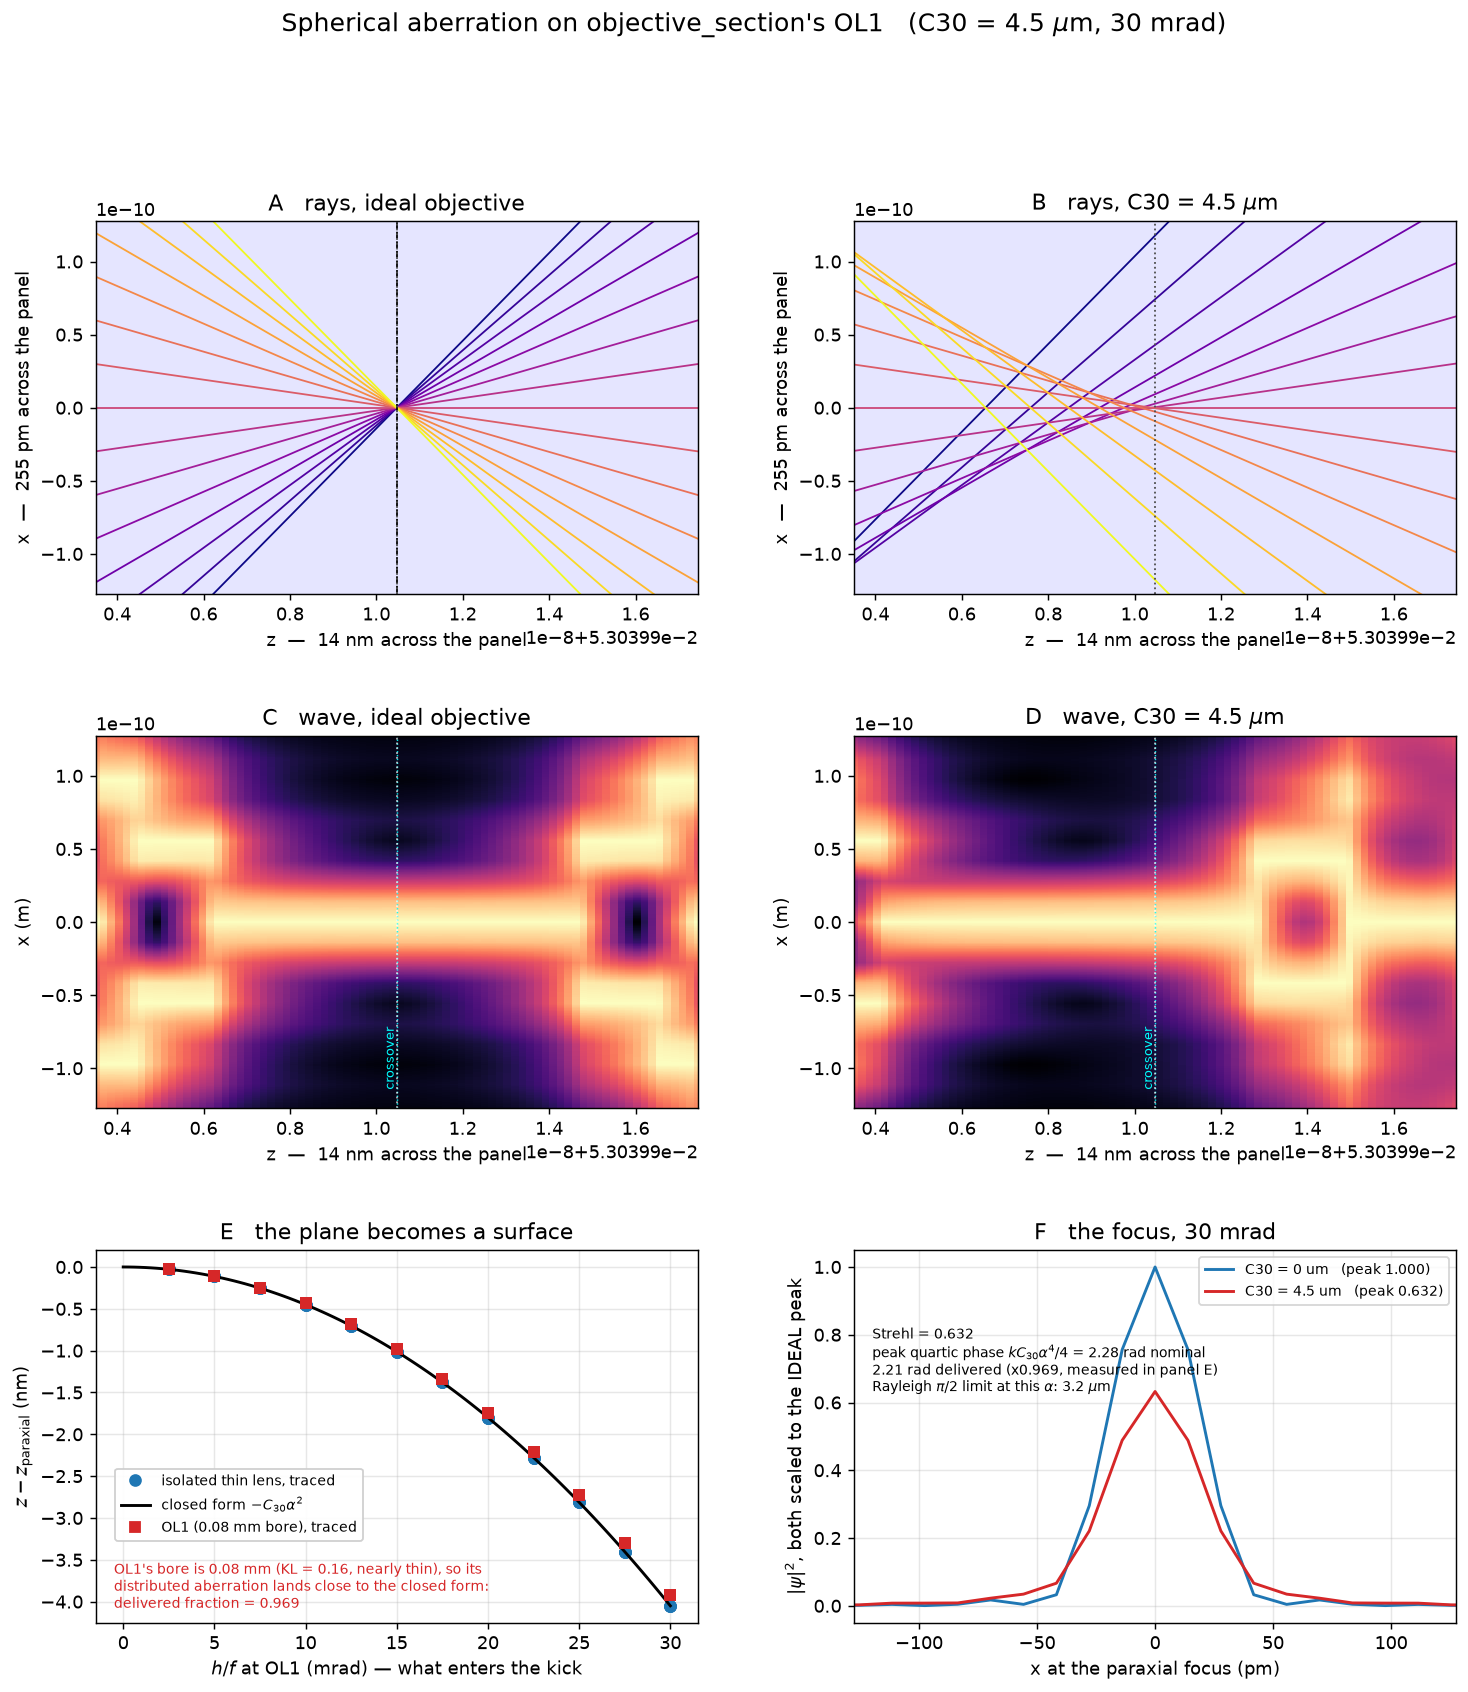
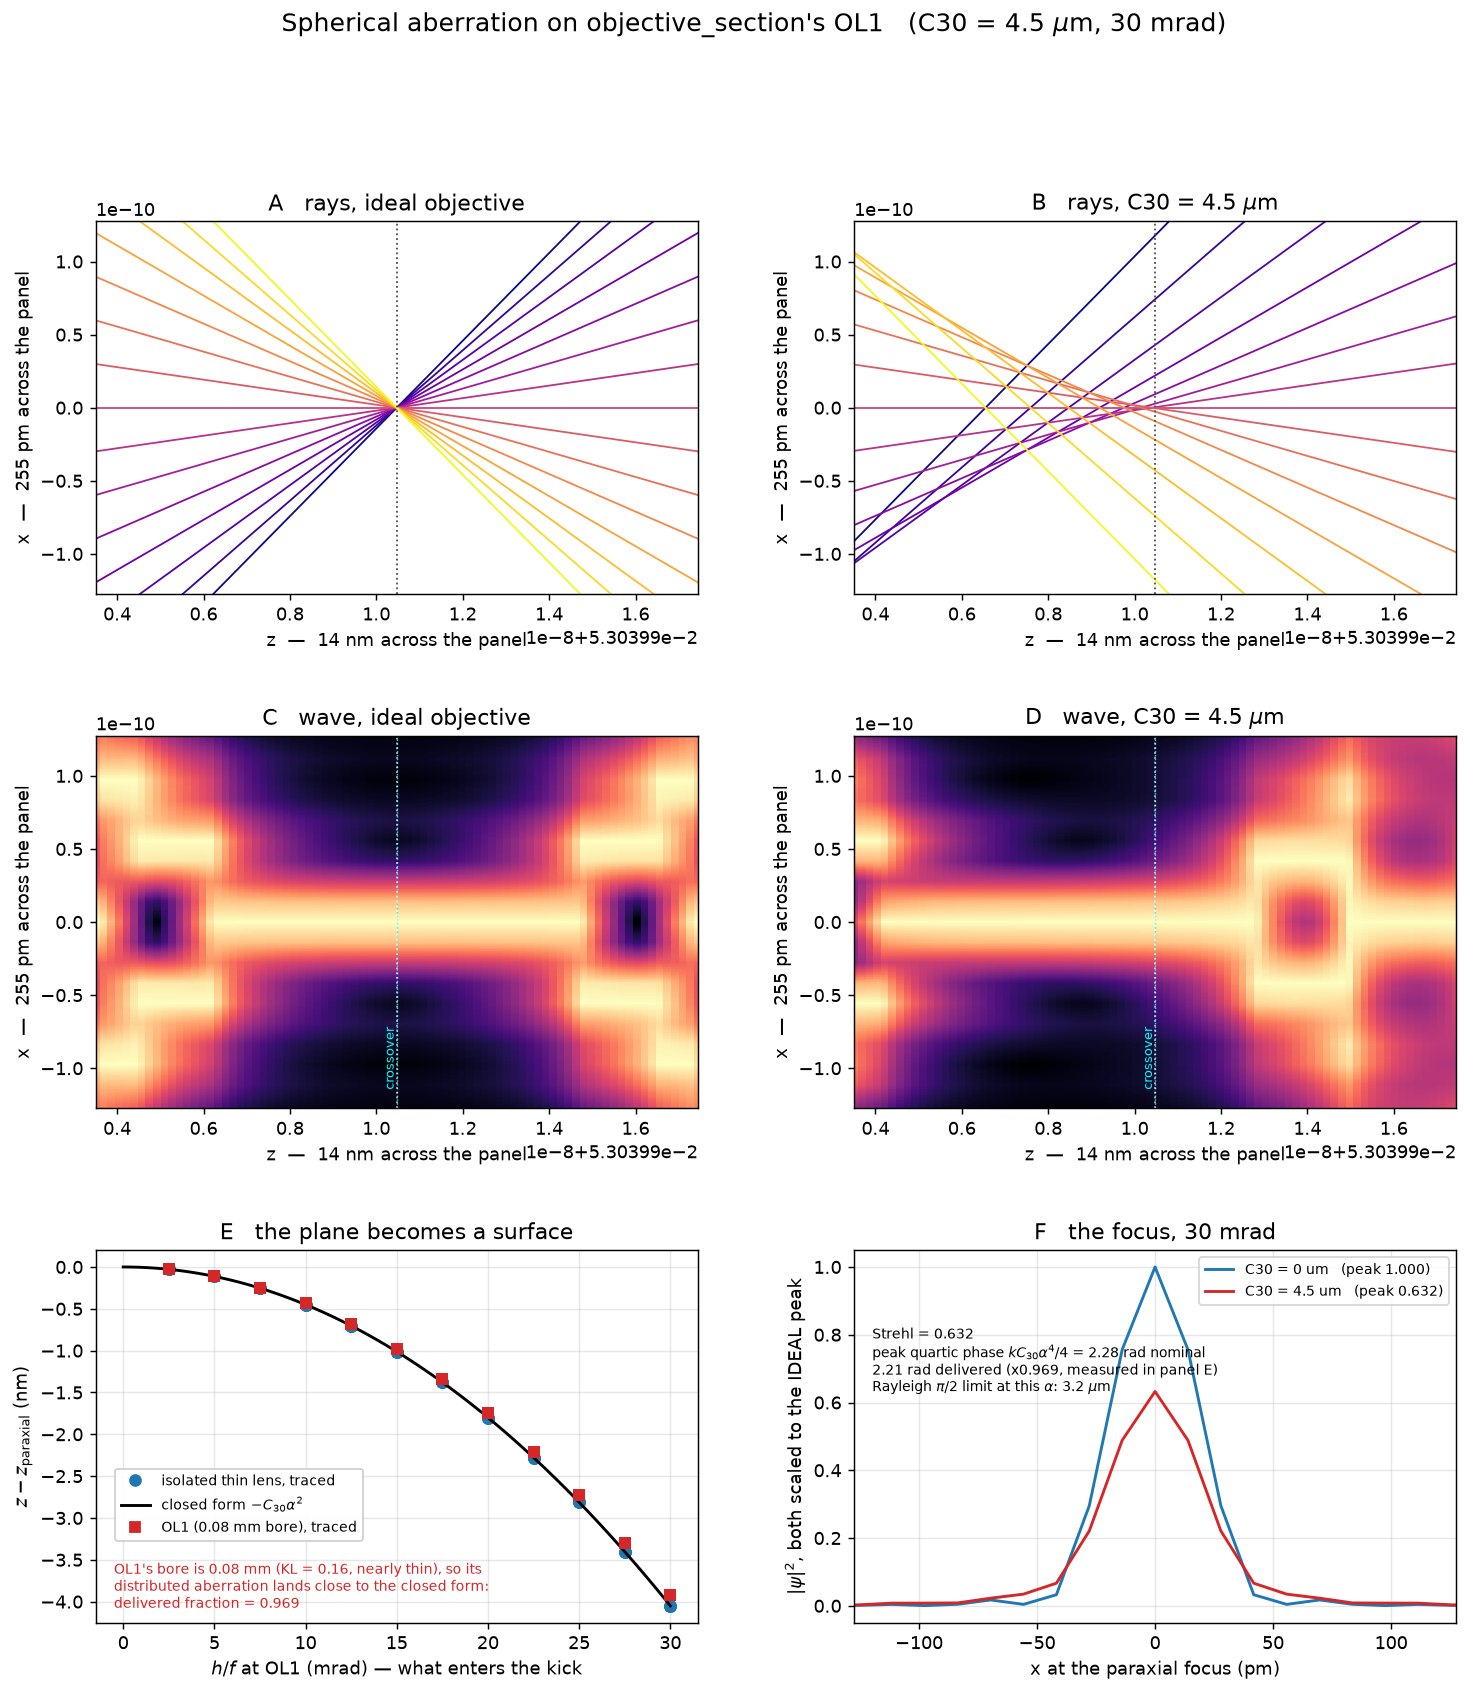
example 06: window and label at the call, not after it
- plot2D and the scaled cross-section take xlabel/ylabel, forwarded from
  Microscope.show, so a panel's labels are supplied where the panel is drawn
  -- the same contract Signal.show already has.
- 06's panels A/B pass the focal window as show(zlims=, ylims=) instead of
  set_xlim/set_ylim afterwards, and overlays=False replaces the loop that
  hid the ray diagram's annotation texts one by one.
- The scope() and focal_window() wrappers are gone: two columns built
  outright, subdivided and propagated in four lines at the point of use.
  The figure is unchanged.

Claude-Session: https://claude.ai/code/session_01RAd3Xf28wH7udEThFAjuTE

diff --git a/examples/06_aberratedObjective.py b/examples/06_aberratedObjective.py
@@ -51,59 +51,10 @@ N_WAVE, N_PLANES = 256, 80
 LAM = 2.5078e-12
 
 
-def scope(c30, **kw):
-	"""Build the objective section, optionally aberrated.
-
-	Parameters
-	----------
-	c30 : float
-		Spherical aberration coefficient (metres); 0 for an ideal objective.
-	**kw
-		Forwarded to :func:`build_objective_section`.
-
-	Returns
-	-------
-	Microscope
-		The objective section, not yet propagated.
-	"""
-	m = build_objective_section(alpha=ALPHA, wave_shape=(N_WAVE, N_WAVE), **kw)
-	if c30:
-		m["OL1"].aberrations = Aberrations({'C30': c30})
-	return m
-
-
-def focal_window(c30, z_lo, z_hi):
-	"""Propagate the objective with the focal window densely sampled.
-
-	Parameters
-	----------
-	c30 : float
-		Spherical aberration coefficient (metres); 0 for an ideal objective.
-	z_lo, z_hi : float
-		Window bounds (metres); ``N_PLANES`` planes are logged across them.
-
-	Returns
-	-------
-	Microscope
-		The propagated column, ready for :meth:`Microscope.show` (the
-		cross-section) and :meth:`Microscope.wavefield_at` (the focal
-		line-out on its native, picometre grid).
-
-	Notes
-	-----
-	:meth:`Microscope.subdivided` cuts the drifts at the requested absolute z,
-	which is what puts a logged plane on each sample of the window. It cuts
-	only UNNAMED drifts -- the focus here sits inside the 3 mm drift ahead of
-	the specimen, so the ``sample`` marker survives, the lengths stay positive
-	and z stays monotonic.
-	"""
-	m = scope(c30).subdivided(list(np.linspace(z_lo, z_hi, N_PLANES)))
-	m.propagate_wave(mode="hybrid", absorb=0.0)
-	return m
-
-
 # ---- the focal window, from the ideal ray crossover ----------------------
-ideal, aberrated = scope(0.0), scope(C30)
+ideal = build_objective_section(alpha=ALPHA, wave_shape=(N_WAVE, N_WAVE))
+aberrated = build_objective_section(alpha=ALPHA, wave_shape=(N_WAVE, N_WAVE))
+aberrated["OL1"].aberrations = Aberrations({'C30': C30})
 for m in (ideal, aberrated):
 	m.propagate_ray()
 Z_PAR = float(ideal.conjugate_planes(axis="x")["diff"][0])
@@ -130,14 +81,11 @@ gs = fig.add_gridspec(3, 2, hspace=0.38, wspace=0.26)
 for k, (m, lbl) in enumerate(((ideal, "A   rays, ideal objective"),
 								(aberrated, f"B   rays, C30 = {C30*1e6:g} " + r"$\mu$m"))):
 	ax = fig.add_subplot(gs[0, k])
-	m.show(kind="ray", plt_ax=ax, regenerate=False, conjugates=False, title=lbl)
-	for t in ax.texts:
-		t.set_visible(False)
-	ax.set_xlim(Z_LO, Z_HI)
-	ax.set_ylim(-X_HALF, X_HALF)
+	m.show(kind="ray", plt_ax=ax, regenerate=False, title=lbl, overlays=False,
+		   zlims=(Z_LO, Z_HI), ylims=(-X_HALF, X_HALF),
+		   xlabel=f"z  —  {(Z_HI-Z_LO)*1e9:.0f} nm across the panel",
+		   ylabel=f"x  —  {2*X_HALF*1e12:.0f} pm across the panel")
 	ax.axvline(Z_PAR, color="0.3", lw=1.0, ls=":")
-	ax.set_xlabel(f"z  —  {(Z_HI-Z_LO)*1e9:.0f} nm across the panel")
-	ax.set_ylabel(f"x  —  {2*X_HALF*1e12:.0f} pm across the panel")
 
 # ---- C, D: the same window, in the wave ---------------------------------
 # The shared cross-section renderer already does what these panels need: each
@@ -146,14 +94,22 @@ for k, (m, lbl) in enumerate(((ideal, "A   rays, ideal objective"),
 # stretch, so no `norm` is called for. `zlims` windows it: planes outside the
 # focal window are dropped before the common transverse grid is built, so the
 # panel is sized by the focus and not by the far end of the column.
-columns = [focal_window(c30, Z_LO, Z_HI) for c30 in (0.0, C30)]
+# subdivided() cuts the drifts at the requested absolute z, which is what puts
+# a logged plane on each sample of the window. It cuts only UNNAMED drifts --
+# the focus sits inside the 3 mm drift ahead of the specimen, so the `sample`
+# marker survives, the lengths stay positive and z stays monotonic.
+columns = [m.subdivided(list(np.linspace(Z_LO, Z_HI, N_PLANES)))
+		   for m in (ideal, aberrated)]
+for m in columns:
+	m.propagate_wave(mode="hybrid", absorb=0.0)
 for k, (m, lbl) in enumerate(zip(columns,
 		("C   wave, ideal objective", f"D   wave, C30 = {C30*1e6:g} " + r"$\mu$m"))):
 	ax = fig.add_subplot(gs[1, k])
 	m.show(kind="wave-hybrid", plt_ax=ax, regenerate=False, conjugates=False,
-		   zlims=(Z_LO, Z_HI), ylims=(-X_HALF, X_HALF), title=lbl)
+		   zlims=(Z_LO, Z_HI), ylims=(-X_HALF, X_HALF), title=lbl,
+		   xlabel=f"z  —  {(Z_HI-Z_LO)*1e9:.0f} nm across the panel",
+		   ylabel=f"x  —  {2*X_HALF*1e12:.0f} pm across the panel")
 	ax.axvline(Z_PAR, color="w", lw=1.0, ls=":", alpha=0.7)
-	ax.set_xlabel(f"z  —  {(Z_HI-Z_LO)*1e9:.0f} nm across the panel")
 
 # ---- E: the focal surface -----------------------------------------------
 axE = fig.add_subplot(gs[2, 0])

diff --git a/src/pySEA/rayTEM/assemblies.py b/src/pySEA/rayTEM/assemblies.py
@@ -155,7 +155,7 @@ def _annotate_positions(ax, positions, label=None, color="w", ls="--", lw=0.6,
 def _scaled_wave_cross_section(planes, ax, named_positions=None, crossovers=None,
 							   image_planes=None, title=None,
 							   coordinates:Literal['physical','scaled']='physical',
-							   zlims=None, ylims=None):
+							   zlims=None, ylims=None, xlabel=None, ylabel=None):
 	r"""Draw the |ψ(x, y=0, z)| cross-section of a scaled-wave run into an axis.
 
 	The wave analog of the geometric ray diagram: each logged plane is
@@ -202,6 +202,10 @@ def _scaled_wave_cross_section(planes, ax, named_positions=None, crossovers=None
 		that survive ``zlims``. Like ``zlims`` this is a window rather than a
 		zoom: the common transverse grid is built across it, so the samples
 		land where the panel is.
+	xlabel, ylabel : str, optional
+		Axis labels, by default ``"z (m)"`` and the transverse coordinate --
+		supplied here rather than set afterwards, as ``Signal.show`` takes
+		them.
 
 	Returns
 	-------
@@ -259,8 +263,9 @@ def _scaled_wave_cross_section(planes, ax, named_positions=None, crossovers=None
 		ax.set_xlim(float(min(zlims)), float(max(zlims)))
 	if ylims is not None:
 		ax.set_ylim(float(min(ylims)), float(max(ylims)))
-	ax.set_xlabel("z (m)")
-	ax.set_ylabel("x (m)" if coordinates == 'physical' else "ξ = x/s (m)")
+	ax.set_xlabel("z (m)" if xlabel is None else xlabel)
+	ax.set_ylabel(("x (m)" if coordinates == 'physical' else "ξ = x/s (m)")
+				  if ylabel is None else ylabel)
 	_annotate_positions(ax, named_positions, color="w", ls="--", lw=0.6,
 						alpha=0.6, at="top")
 	_annotate_positions(ax, crossovers, label="crossover", color="cyan", ls=":",
@@ -3385,7 +3390,7 @@ class Microscope(SealedAttributes, SEASerializable):
 			 filename=None, title=None, ylims=None, zlims=None, regenerate=True, plt_ax=None,
 			 plane:int|float|str=None, zpts=None, conjugates:bool=True,
 			 coordinates:Literal['physical','scaled']='physical',
-			 overlays:bool=True):
+			 overlays:bool=True, xlabel:str=None, ylabel:str=None):
 		r"""Visualize a propagation result.
 
 		``kind="ray"`` draws the usual ray diagram (with element/plane overlays).
@@ -3436,6 +3441,10 @@ class Microscope(SealedAttributes, SEASerializable):
 			existing one. The copy is propagated on the spot and discarded —
 			this object's own stored result is never touched (so ``regenerate``
 			does not apply to it).
+		xlabel, ylabel : str, optional
+			Axis labels for the ray diagram and the scaled cross-section, by
+			default the coordinate and its unit. Supplied here rather than set
+			afterwards, as the result Signals' own ``.show()`` takes them.
 		overlays : bool, optional
 			Ray diagram only: annotate elements, sections, and conjugate
 			planes, by default True. Pass False when drawing rays *onto* a
@@ -3491,7 +3500,8 @@ class Microscope(SealedAttributes, SEASerializable):
 			plot2D(self.rays, zpts=self.named_positions if overlays else "",
 				   sections=self.named_sections if overlays else None,
 				   planes=overlays, filename=filename, title=title,
-				   ylims=ylims, xlims=zlims, plt_ax=plt_ax)
+				   ylims=ylims, xlims=zlims, plt_ax=plt_ax,
+				   xlabel=xlabel, ylabel=ylabel)
 			return
 		# --- delegate to the result Signal's own .show() (sea_eco renders <=2D) ---
 		import matplotlib.pyplot as plt
@@ -3544,7 +3554,7 @@ class Microscope(SealedAttributes, SEASerializable):
 					named_positions=scope.named_positions,
 					crossovers=getattr(scope, "crossovers", None),
 					image_planes=images, coordinates=coordinates,
-					zlims=zlims, ylims=ylims,
+					zlims=zlims, ylims=ylims, xlabel=xlabel, ylabel=ylabel,
 					title=title or (self.name or 'microscope') + f" {mode} wave |ψ(x, 0, z)|")
 			else:
 				if isinstance(plane, (int, xp.integer)) and not isinstance(plane, bool):

diff --git a/src/pySEA/rayTEM/postprocessing.py b/src/pySEA/rayTEM/postprocessing.py
@@ -12,7 +12,7 @@ from matplotlib.cm import plasma as cmap
 # Basic 2D plotting (along z, and in whatever axis you have chosen)
 # TWP 2026-07-23: upon discussion with Eric, we decided to always rotate. R is still tracked to allow you to return to the rotating reference frame for the purposes of quick-and-easy plane detection etc, although that stuff should be improved too (e.g., once we add aberrations, we will need to look for a beam waist. interpolate between drift endpoints, calculate Diameter(z) from all rays, d^2 diameter / dz^2 tells you where the beam is at a minimum diameter. check bundles of rays for diffraction planes?)
 # For now, plot2D assumes it is given unrotated-reference-frame rays, and should likely call convert_to_rotating_reference_frame.
-def plot2D(r1,axis="x",filename=None,zpts="",sections=None,xlims=None,ylims=None,title=None,plt_ax=None,planes:bool=True):
+def plot2D(r1,axis="x",filename=None,zpts="",sections=None,xlims=None,ylims=None,title=None,plt_ax=None,planes:bool=True,xlabel:str=None,ylabel:str=None):
 	"""Draw the ray diagram: one transverse coordinate against z.
 
 	Rays are converted to the rotating (Larmor) frame first, so a column with
@@ -44,6 +44,9 @@ def plot2D(r1,axis="x",filename=None,zpts="",sections=None,xlims=None,ylims=None
 		Annotate the conjugate planes found by :func:`findPlanes`, by default
 		True. Pass False when compositing onto a panel that already carries
 		its own plane overlays -- see :meth:`Microscope.show`.
+	xlabel, ylabel : str, optional
+		Axis labels, by default ``"z (m)"`` and ``"<axis> (m)"`` -- supplied
+		here rather than set afterwards, as ``Signal.show`` takes them.
 
 	Returns
 	-------
@@ -130,6 +133,8 @@ def plot2D(r1,axis="x",filename=None,zpts="",sections=None,xlims=None,ylims=None
 		ax.set_xlim(xlims)
 	ax.set_ylim(ylims)
 
+	ax.set_xlabel("z (m)" if xlabel is None else xlabel)
+	ax.set_ylabel(f"{axis} (m)" if ylabel is None else ylabel)
 	if title is not None:
 		ax.set_title(title)
 
